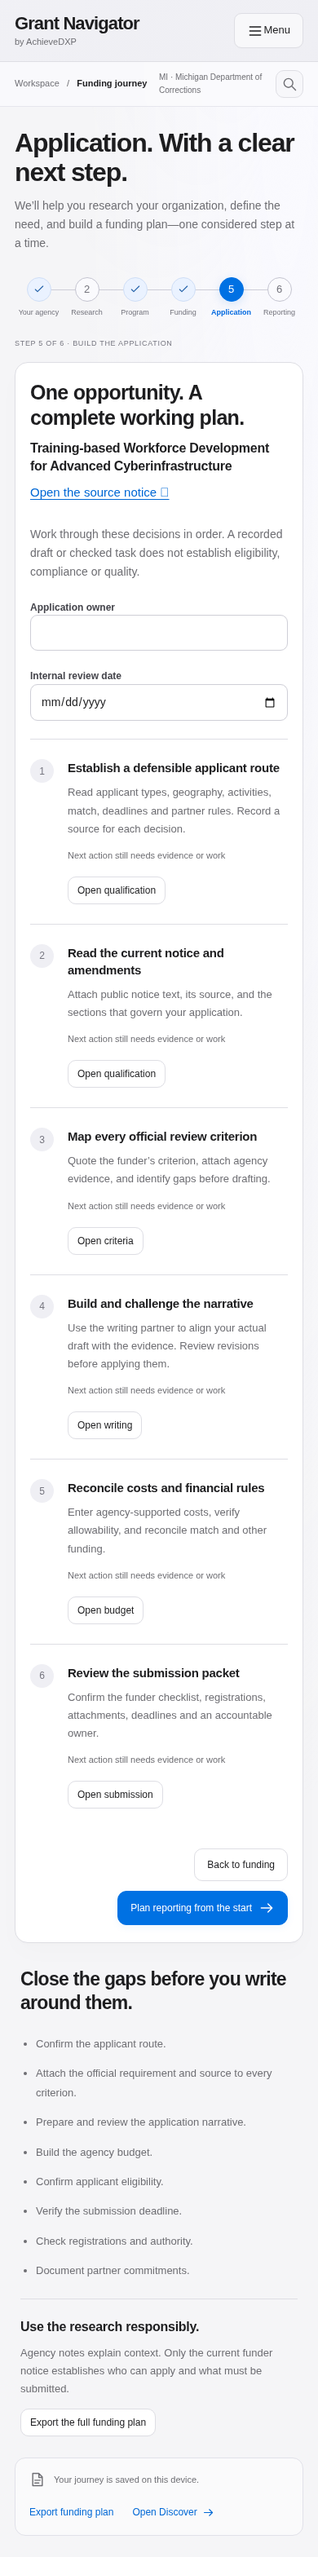
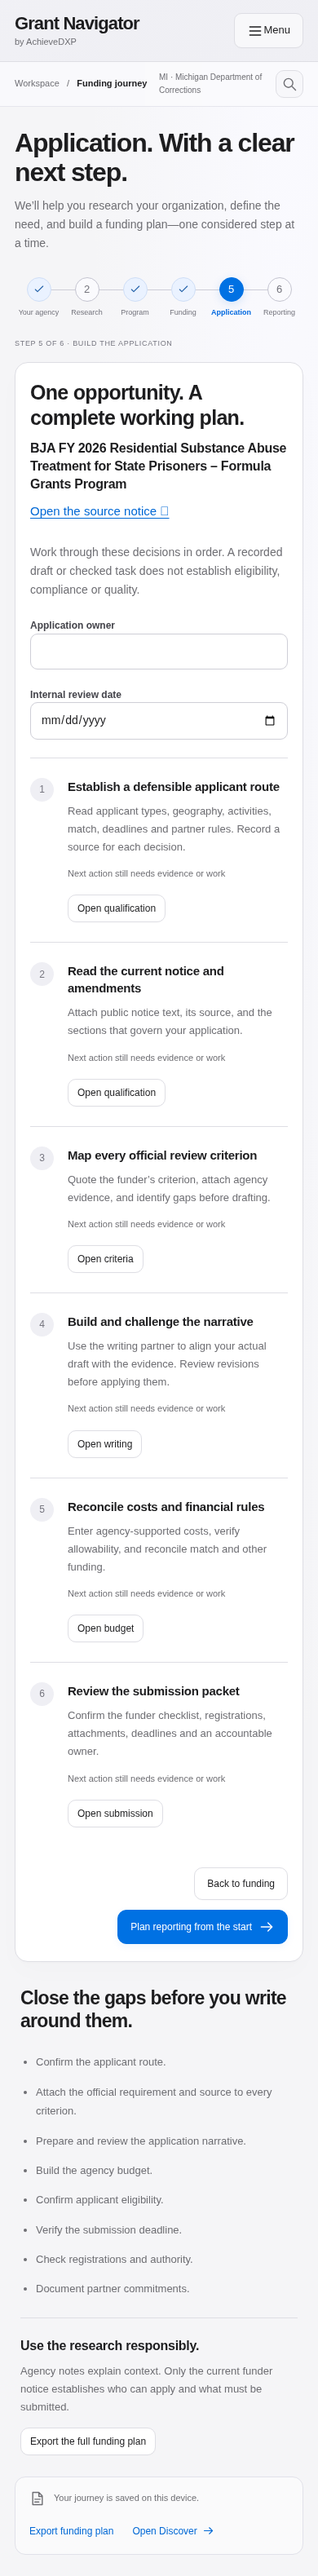
Exclude scientific literacy from adult education funding matches

diff --git a/matching.js b/matching.js
@@ -8,7 +8,7 @@
     ged: {
       label: "Adult education and literacy",
       terms:
-        /adult education|adult literacy|\bliteracy\b|high school equivalency|\bGED\b|basic education/i,
+        /adult education|adult literacy|literacy (?:education|instruction|program|tutor)|reading and writing|high school equivalency|\bGED\b|basic education/i,
     },
     cte: {
       label: "Career training and credentials",

diff --git a/docs/GUIDED_JOURNEY_REVIEW.md b/docs/GUIDED_JOURNEY_REVIEW.md
@@ -26,9 +26,9 @@ Desktop captures use a 1440×1040 viewport; mobile uses 390×844. Full-page capt
 | Mobile layout | Stages remain visible at 390px, form and contextual help stack, and long tasks reflow. Browser checks found no horizontal overflow in agency, program, application or reporting; mobile menu and reduced-motion regressions pass. |
 | Funding and application continuation | The same hierarchy extends into a program brief, the working AI composer, source-aligned notices, goal-related research routes, ordered application tasks and reporting guidance. Actual form content can extend below the first viewport. |
 
-The agency entry uses the actual empty website, not fixture data. Later previews use an explicitly labeled example planning brief and actual checked-in source records. The selected notice is only a topical research candidate; no DOC eligibility, client program, award or AI-generated finding is asserted. No live AI output or client results were fabricated for screenshots.
+The agency entry uses the actual empty website, not fixture data. Later previews use an explicitly labeled example planning brief and actual checked-in source records. The funding preview has no matching current notice for the sample literacy/credential goals and displays research routes. The application preview adds recovery as a sample goal to exercise an actual notice; this does not represent a client program or verified fit. The selected notice is only a topical research candidate; no DOC eligibility, client program, award or AI-generated finding is asserted. No live AI output or client results were fabricated for screenshots.
 
-Visual QA identified false matches caused by standalone “corrections” in scientific document notices and generic faculty “career” references. Matching now requires correctional context for that signal; career-training terms are more specific. The guided shortlist also requires selected-goal alignment and excludes known blockers. This is still rule-based research prioritization, not a complete eligibility assessment. Relevant state, workforce and corporate pathways remain visible when the notice pool is limited.
+Visual QA identified false matches caused by standalone “corrections” in scientific document notices and generic faculty “career” references, and advanced scientific “literacy” being mislabeled adult education. Matching now requires correctional context for that signal; career-training and adult-education terms are more specific. The guided shortlist also requires selected-goal alignment and excludes known blockers. This is still rule-based research prioritization, not a complete eligibility assessment. Relevant state, workforce and corporate pathways remain visible when the notice pool is limited.
 
 ## Workflow and research validation
 
